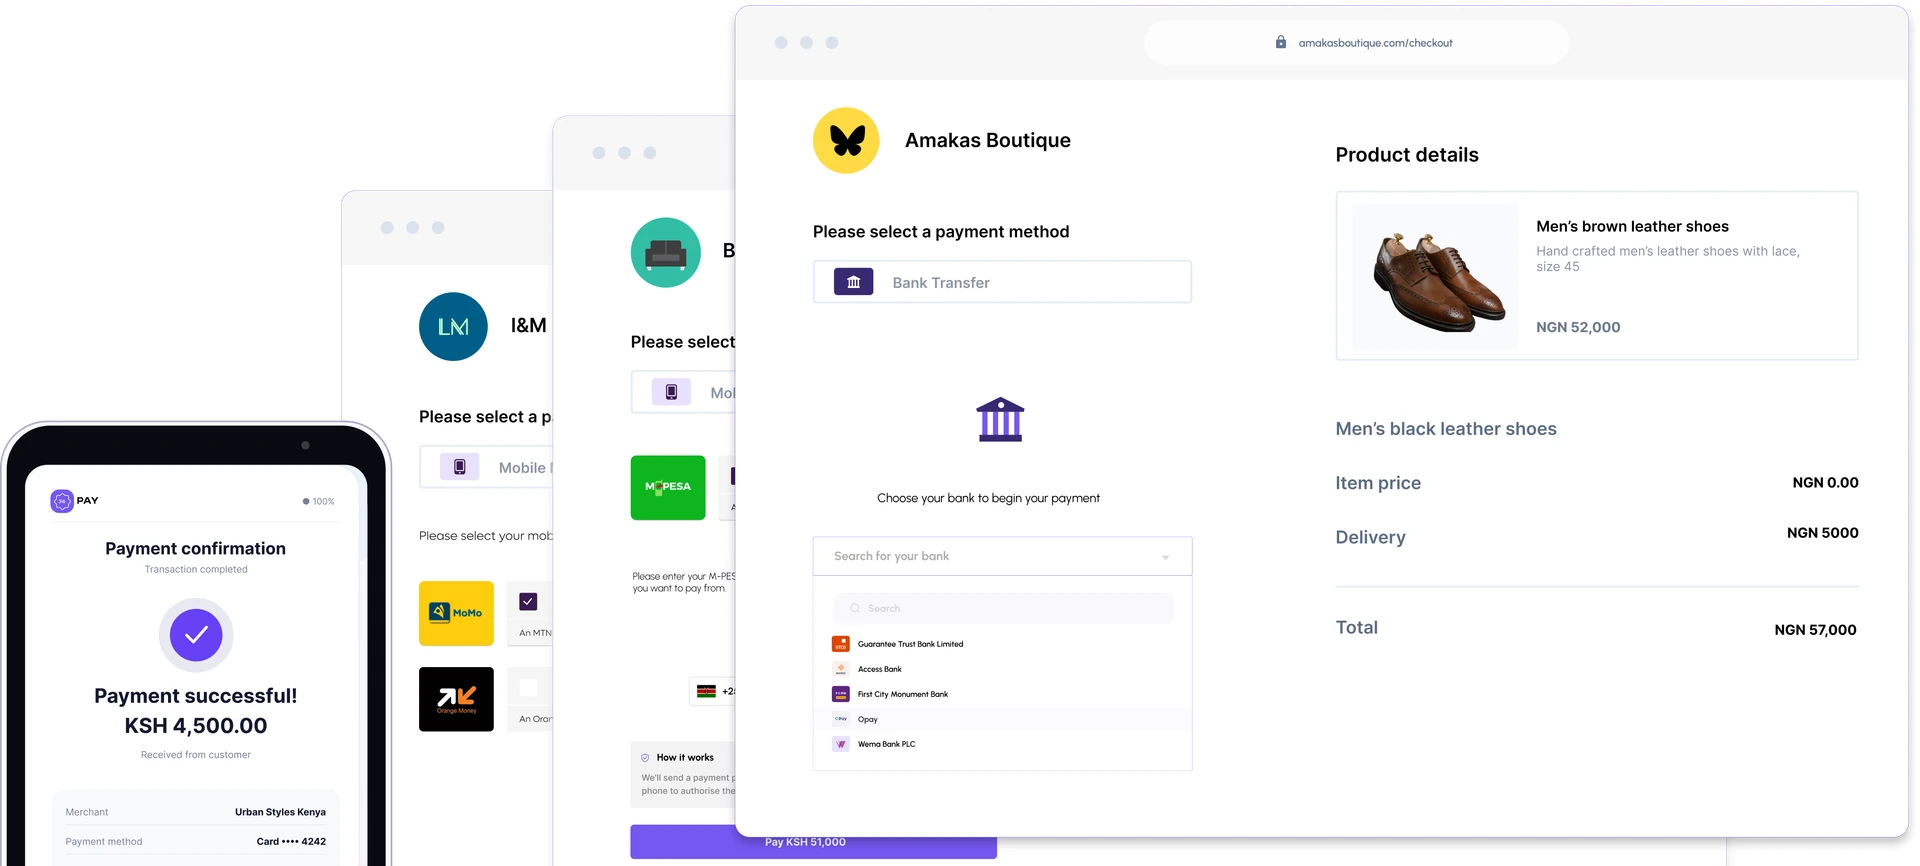
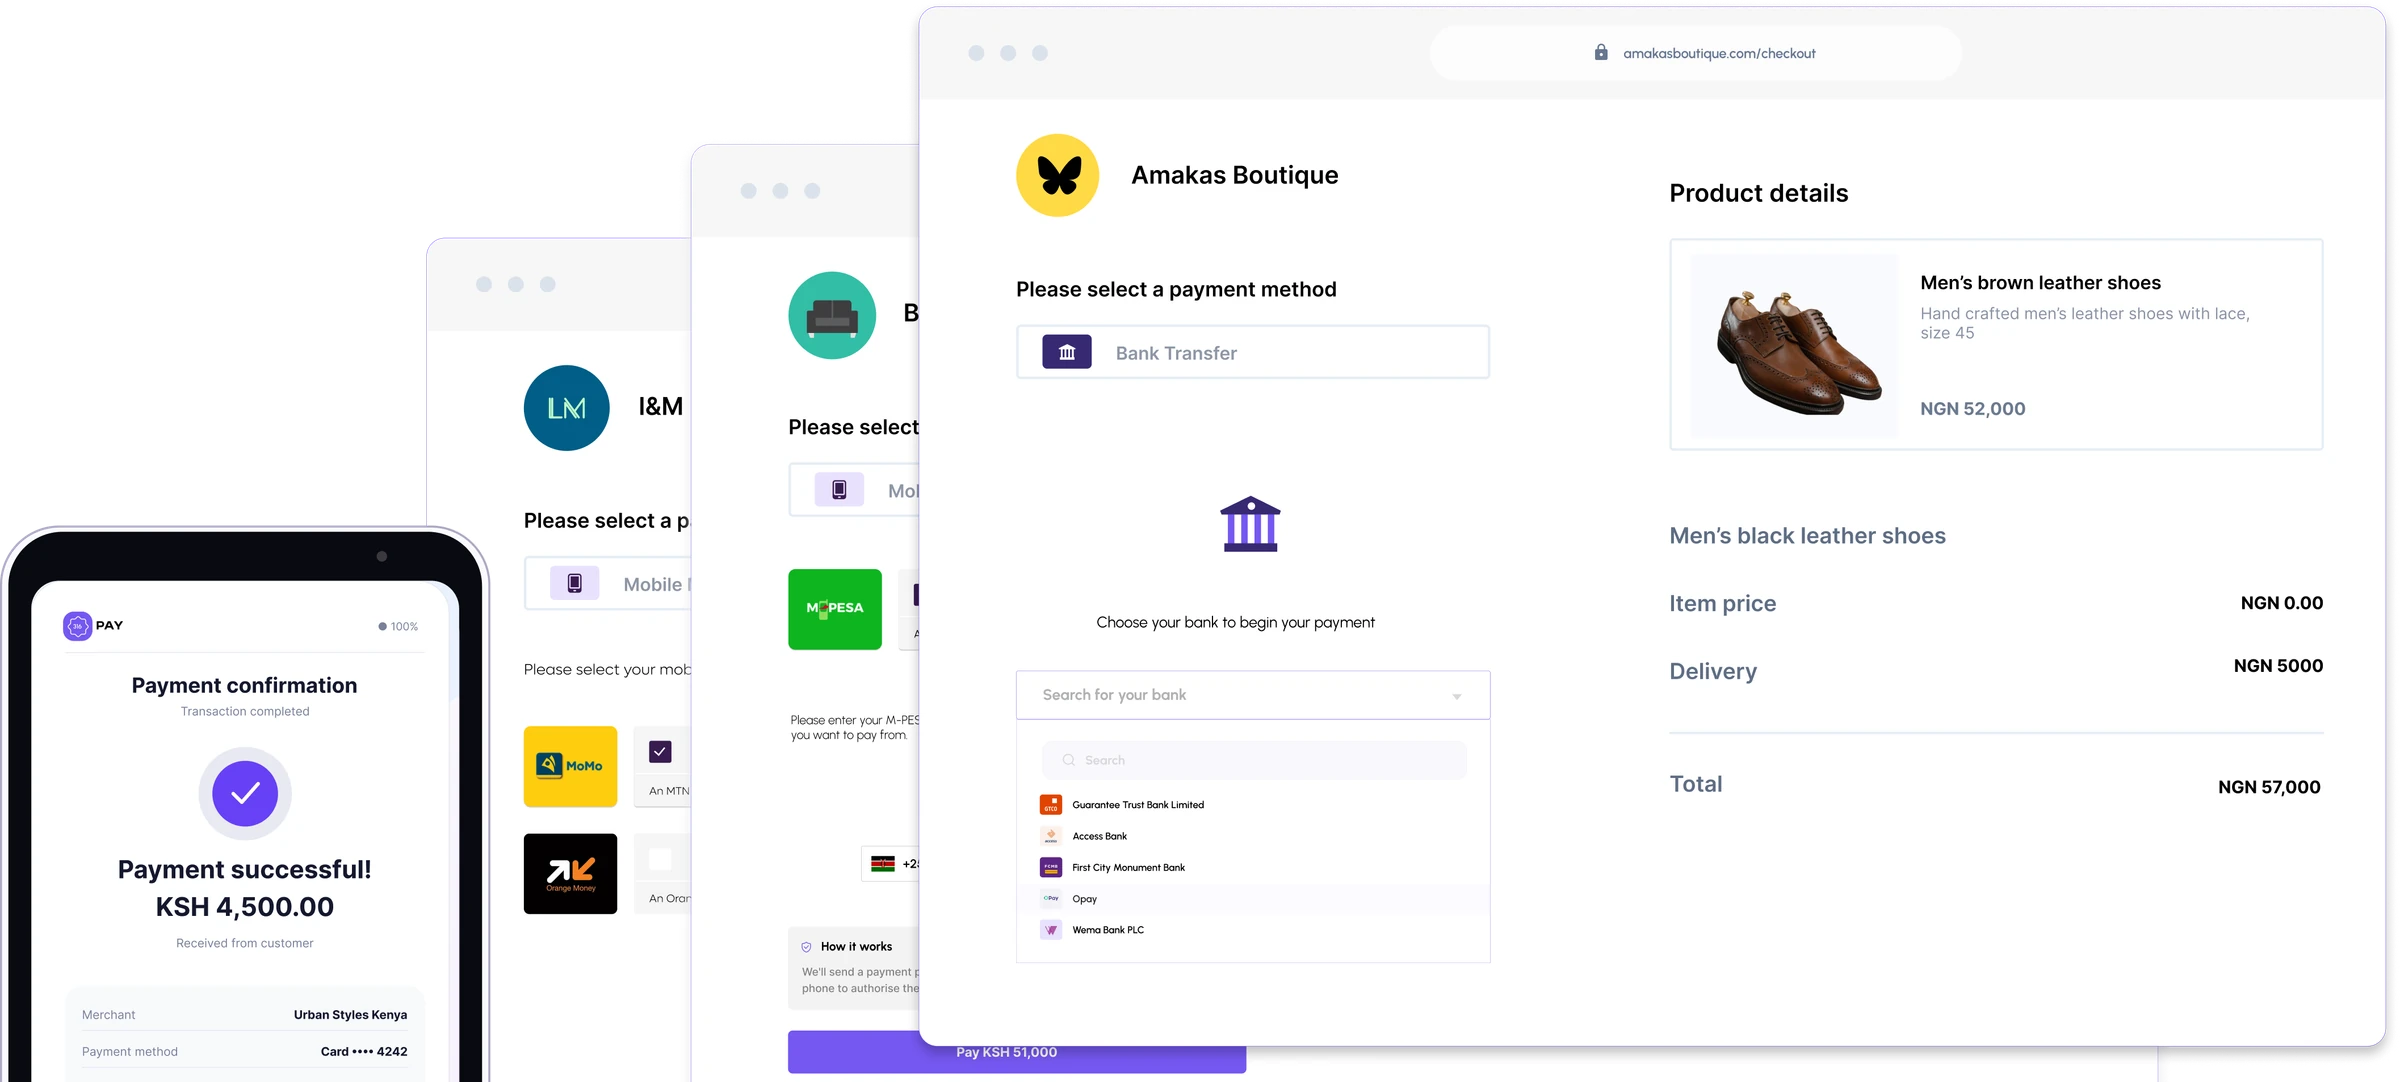
Business: larger crisp hero with curve lines, product panel image, Accept payments online and in person section, exact shades for instalment cards and API facets

diff --git a/apps/marketing-web/business.css b/apps/marketing-web/business.css
@@ -67,7 +67,10 @@
 .bz-hero__title { margin: 0; font-size: clamp(1.875rem, 1rem + 2.7vw, 2.875rem); line-height: 1.15; font-weight: 600; }
 .bz-hero__title .ln { display: block; }
 .bz-lead { max-width: 56rem; margin: clamp(1.25rem, 2.4vw, 2rem) auto 0; font-size: clamp(0.9375rem, 0.75rem + 0.75vw, 1.3125rem); line-height: 1.5; color: #1a1a1a; }
-.bz-hero__media { width: min(100%, 64rem); margin: clamp(2rem, 4.5vw, 4rem) auto 0; }
+.bz-hero__text, .bz-hero__media { position: relative; z-index: 1; }
+.bz-hero__lines { position: absolute; inset: 0; z-index: 0; width: 100%; height: 100%; pointer-events: none; }
+.bz-hero__lines path { stroke-width: 1.2; vector-effect: non-scaling-stroke; }
+.bz-hero__media { width: min(82%, 74rem); margin: clamp(2rem, 4.5vw, 4rem) auto 0; }
 .bz-hero__media .bz-img { width: 100%; }
 
 /* ---------- 2 · Bento ---------- */
@@ -90,8 +93,8 @@
 .bz-card__art { position: relative; margin-top: auto; }
 
 /* 03 Collections: white card, chart under the copy */
-.bz-card--white { background: #fff; border: 0.0625rem solid #ECE8F8; }
-.bz-card__art--chart { margin-top: clamp(1.25rem, 4%, 2rem); padding: 0 6% 0; }
+.bz-card--white { background: radial-gradient(circle at center, rgba(160, 130, 240, .22) 0.0625rem, transparent 0.125rem) 0 0 / 1.25rem 1.25rem, linear-gradient(135deg, #FDFCFF 0%, #F8F5FF 100%); }
+.bz-card__art--chart { margin-top: clamp(1.25rem, 4%, 2rem); padding: 0 5% 0; }
 
 /* 04 Payment links: lilac with a dot field, chats and a product panel */
 .bz-card--links, .bz-card--gift {
@@ -134,8 +137,9 @@
 /* ---------- 5 · Instalments ---------- */
 .bz-sub--wide { max-width: 64rem; }
 .bz-pss { display: grid; grid-template-columns: 2.04fr 1fr; gap: var(--bz-gap); align-items: stretch; }
-.bz-card--pss { background: linear-gradient(160deg, #FBFAFF 0%, #F6F2FE 55%, #EFE8FD 100%); isolation: isolate; }
-.bz-card--pss::before { content: ""; position: absolute; z-index: -1; left: 0; bottom: 0; width: 55%; height: 62%; background: linear-gradient(60deg, #DCCDFD 0%, #E9E0FE 100%); clip-path: polygon(0 100%, 0 45%, 100% 100%); }
+.bz-card--pss { background: linear-gradient(135deg, #FAF9FF 0%, #F6F3FF 60%, #F4F1FE 100%); isolation: isolate; }
+.bz-card--pss::before { content: ""; position: absolute; z-index: -1; left: 0; bottom: 0; width: 48%; height: 22%; background: linear-gradient(90deg, #D3C1FD 0%, #D9CAFD 100%); clip-path: polygon(0 100%, 0 38%, 100% 100%); }
+.bz-card--pss::after { content: ""; position: absolute; z-index: -1; left: 0; bottom: 0; width: 58%; height: 13%; background: #E9E1FE; clip-path: polygon(0 100%, 0 20%, 100% 100%); }
 .bz-card--pss .bz-card__text { padding-bottom: 0; }
 .bz-card--pss h3 { max-width: 14em; font-size: clamp(1.125rem, 0.8rem + 0.8vw, 1.5rem); }
 .bz-card__label--dark { color: var(--bz-eyebrow); }
@@ -145,7 +149,7 @@
 .bz-pss__rem { left: 22.3%; top: 23.6%; width: 25.4%; z-index: 2; filter: drop-shadow(0 0.25rem 0.75rem rgba(80, 50, 160, .12)); }
 .bz-pss__order { left: 22.3%; top: 33%; width: 25.4%; z-index: 2; filter: drop-shadow(0 0.25rem 0.75rem rgba(80, 50, 160, .12)); }
 .bz-pss__conn { position: absolute; left: 31%; top: 13.4%; width: 13.7%; height: 10.5%; border-top: 0.09375rem dashed #7557F1; border-left: 0.09375rem dashed #7557F1; opacity: .7; }
-.bz-card--manage { background: linear-gradient(190deg, #F4F1FE 0%, #D9CCFD 38%, #AE98FB 70%, #A38DFA 100%); }
+.bz-card--manage { background: linear-gradient(195deg, #F5F2FF 0%, #F4F1FE 22%, #D9CAFD 46%, #AC82F9 72%, #A68FFB 100%); }
 .bz-card--manage h3 { font-size: clamp(1rem, 0.8rem + 0.55vw, 1.3125rem); }
 .bz-card__art--plans { margin-top: clamp(1.25rem, 8%, 2rem); padding: 0 4%; }
 .bz-card__art--plans .bz-img { box-shadow: 0 0.5rem 2rem rgba(70, 40, 150, .15); border-radius: 0.875rem; }
@@ -189,9 +193,7 @@
 /* ---------- 8 · Powerful APIs ---------- */
 .bz-api { position: relative; overflow: hidden; }
 .bz-api > .bz-wrap { position: relative; z-index: 1; }
-.bz-poly { position: absolute; z-index: 0; height: auto; max-width: none; pointer-events: none; }
-.bz-poly--a { right: 0; bottom: 0; top: auto; height: 79%; width: auto; }
-.bz-poly--b { right: 0; bottom: 0; top: auto; width: 55%; height: auto; }
+.bz-api__bg { position: absolute; inset: 0; z-index: 0; width: 100%; height: 100%; pointer-events: none; }
 .bz-api__inner { display: grid; grid-template-columns: minmax(0, 1fr) minmax(0, 1.15fr); gap: clamp(2rem, 6vw, 5rem); align-items: center; }
 .bz-api .bz-h2 { color: #fff; font-size: clamp(1.625rem, 0.9rem + 2vw, 2.375rem); }
 .bz-api .bz-body { color: rgba(255, 255, 255, .9); font-size: clamp(0.875rem, 0.75rem + 0.4vw, 1.0625rem); }
@@ -260,3 +262,25 @@
 .theme-pay .faq__list details[open] summary::after { transform: rotate(180deg); }
 .theme-pay .faq__list summary .ln { display: inline; }
 @media (min-width: 48rem) { .theme-pay .faq__list summary .ln { display: block; } }
+
+/* ---------- Accept payments online and in person ---------- */
+.bz-online { position: relative; overflow: hidden; margin-top: clamp(2.5rem, 5vw, 4.5rem); background: linear-gradient(180deg, #F4F0FE 0%, #F7F4FF 22%, #FFFFFF 78%); }
+.bz-online__head { padding: clamp(1.5rem, 3.6%, 3rem) clamp(1.25rem, 3.6%, 3rem) 0; }
+.bz-online__title { margin: 0; font-size: clamp(1.25rem, 0.9rem + 1.1vw, 1.75rem); line-height: 1.25; font-weight: 600; color: #000; }
+.bz-online__title .ln { display: block; }
+.bz-online__desc { margin: 0.875rem 0 0; font-size: clamp(0.75rem, 0.68rem + 0.3vw, 0.9375rem); line-height: 1.5; color: #1a1a1a; }
+@media (min-width: 64rem) { .bz-online__desc .ln { display: block; } }
+.bz-online__art { position: relative; aspect-ratio: 2.14 / 1; margin-top: clamp(1.5rem, 3.2%, 2.75rem); }
+.bz-online__art > * { position: absolute; display: block; max-width: none; }
+.bz-online__wedge { left: 0; bottom: 0; width: 34%; height: 62%; background: linear-gradient(120deg, #EDE5FE 0%, #DCCEFC 100%); clip-path: polygon(0 100%, 0 26%, 100% 100%); }
+.bz-online__pos { left: 7.6%; top: 11%; height: 83%; width: auto; z-index: 2; filter: drop-shadow(0 0.75rem 1.5rem rgba(80, 50, 160, .22)); }
+.bz-online__dash { left: 29.3%; top: 4.4%; width: 70.7%; height: auto; z-index: 1; }
+img.bz-online__dash { box-shadow: 0 0.5rem 2rem rgba(80, 50, 160, .1); }
+@media (max-width: 47.99rem) {
+  .bz-online__art { aspect-ratio: auto; display: flex; flex-direction: column; align-items: center; gap: 1.5rem; padding: 1.5rem 1.25rem 0; }
+  .bz-online__art > * { position: static; }
+  .bz-online__wedge { display: none; }
+  .bz-online__pos { height: 22rem; width: auto; max-width: 100%; }
+  .bz-online__dash { width: 100%; }
+  .bz-hero__media { width: 100%; }
+}

diff --git a/apps/marketing-web/accept-online-payments.html b/apps/marketing-web/accept-online-payments.html
@@ -200,11 +200,21 @@
   <main>
     <!-- 1 · Hero (gradient #FBF8FF → #E8D7FF → #AF7BFA) -->
     <section class="bz-hero" aria-labelledby="bz-hero-title">
+      <svg class="bz-hero__lines" viewBox="0 0 1440 900" preserveAspectRatio="none" aria-hidden="true" focusable="false">
+        <g fill="none" stroke="#fff" stroke-linecap="round">
+          <path d="M-20 700 C 110 660 230 590 380 520" opacity=".55"/>
+          <path d="M-20 760 C 130 715 270 640 430 560" opacity=".45"/>
+          <path d="M-20 820 C 150 770 300 690 480 600" opacity=".35"/>
+          <path d="M1460 560 C 1340 570 1240 520 1110 450" opacity=".5"/>
+          <path d="M1460 630 C 1350 640 1250 590 1130 520" opacity=".4"/>
+          <path d="M1460 700 C 1360 705 1270 660 1160 590" opacity=".3"/>
+        </g>
+      </svg>
       <div class="bz-hero__text">
         <h1 id="bz-hero-title" class="bz-hero__title"><span class="ln accent">We make it easy</span> <span class="ln">to collect payments in Africa</span></h1>
         <p class="bz-lead"><span class="ln">Collect payments from customers, simplify your operations and reach more</span> <span class="ln">of your market with payment infrastructure designed around African</span> <span class="ln">businesses.</span></p>
       </div>
-      <div class="bz-hero__media"><img src="assets/Business/hero.webp" alt="A phone showing a payment confirmation in front of three checkout screens: mobile money, bank transfer and card" class="bz-img" fetchpriority="high" width="1920" height="866" decoding="async"></div>
+      <div class="bz-hero__media"><img src="assets/Business/hero.webp" alt="A phone showing a payment confirmation in front of three checkout screens: mobile money, bank transfer and card" class="bz-img" fetchpriority="high" width="2400" height="1082" decoding="async"></div>
     </section>
 
     <!-- 2 · Payments should move at the speed of your business (white) -->
@@ -243,7 +253,7 @@
               <div class="bz-card__art bz-card__art--links">
                 <img src="assets/Business/link-chat-1.webp" alt="WhatsApp: Hi Amaka, Good news! The new collection is now ready. The pieces you were after are back in stock in your size." class="bz-chat bz-chat--a" width="700" height="155" loading="lazy" decoding="async">
                 <img src="assets/Business/link-chat-2.webp" alt="WhatsApp reply: Oh wow good news, please send me a payment link to reserve before they sell out again. Sharp sharp" class="bz-chat bz-chat--b" width="700" height="157" loading="lazy" decoding="async">
-                <span class="slot bz-links__products" style="aspect-ratio:1.275/1" data-slot="Business/links-products" aria-hidden="true"></span>
+                <img src="assets/Business/links-products.webp" alt="" class="bz-links__products" width="900" height="704" loading="lazy" decoding="async">
               </div>
             </article>
 
@@ -256,6 +266,18 @@
               </div>
               <div class="bz-card__art bz-card__art--gift"><img src="assets/Business/giftcard-phone.webp" alt="A checkout screen at step 3, Gift Card, showing a Home Electrical Supplies gift card worth N50,000" class="bz-img" width="700" height="884" loading="lazy" decoding="async"></div>
             </article>
+          </div>
+        </div>
+
+        <div class="bz-online" id="online">
+          <div class="bz-online__head">
+            <h3 class="bz-online__title"><span class="ln">Accept payments online</span> <span class="ln">and in person.</span></h3>
+            <p class="bz-online__desc"><span class="ln">Give customers a clear checkout experience, with payment methods that fit your market</span> <span class="ln">and your business.</span></p>
+          </div>
+          <div class="bz-online__art">
+            <span class="bz-online__wedge" aria-hidden="true"></span>
+            <img src="assets/Business/pos-terminal.webp" alt="A payment terminal on the amount screen for Le Relais Restaurant, showing 12 500 XAF" class="bz-online__pos" width="700" height="1359" loading="lazy" decoding="async">
+            <span class="slot bz-online__dash" style="aspect-ratio:1.58/1" data-slot="Business/pos-dashboard" aria-hidden="true"></span>
           </div>
         </div>
       </div>
@@ -457,7 +479,17 @@
 
     <!-- 8 · Powerful APIs (#000) -->
     <section class="bz-sec bz-sec--black bz-api" id="api" aria-labelledby="api-title">
-      <img class="bz-poly bz-poly--a" src="assets/Business/poly-a.webp" alt="" width="700" height="746" loading="lazy" decoding="async"><img class="bz-poly bz-poly--b" src="assets/Business/poly-b.webp" alt="" width="700" height="241" loading="lazy" decoding="async">
+      <svg class="bz-api__bg" viewBox="0 0 1500 900" preserveAspectRatio="none" aria-hidden="true" focusable="false">
+        <defs>
+          <linearGradient id="bz-f1" x1="0" y1="1" x2="1" y2="0"><stop offset="0" stop-color="#443761"/><stop offset="1" stop-color="#6a6299"/></linearGradient>
+          <linearGradient id="bz-f2" x1="0" y1="1" x2="1" y2="0"><stop offset="0" stop-color="#8a5fd8"/><stop offset="1" stop-color="#9a80ea"/></linearGradient>
+          <linearGradient id="bz-f3" x1="0" y1="0" x2="1" y2="0"><stop offset="0" stop-color="#8b66dc"/><stop offset="1" stop-color="#9490e0"/></linearGradient>
+        </defs>
+        <polygon points="0,900 1500,240 1500,900" fill="url(#bz-f1)"/>
+        <polygon points="260,900 1500,470 1500,900" fill="url(#bz-f2)"/>
+        <polygon points="700,900 1500,600 1500,900" fill="url(#bz-f3)"/>
+        <line x1="330" y1="900" x2="1500" y2="560" stroke="#fff" stroke-opacity=".85" stroke-width="2" vector-effect="non-scaling-stroke"/>
+      </svg>
       <div class="bz-wrap bz-api__inner">
         <div class="bz-api__copy">
           <p class="bz-eyebrow">For the people building what’s next</p>

diff --git a/tools/pages/accept-online-payments.page.html b/tools/pages/accept-online-payments.page.html
@@ -1,6 +1,16 @@
 <!--page title="Accept online payments · 316 Pay" description="Collect payments from customers, simplify your operations and reach more of your market with payment infrastructure designed around African businesses." preload="assets/Business/hero.webp" css="business.css" bodyclass="theme-pay" wordmark="PAY"-->
     <!-- 1 · Hero (gradient #FBF8FF → #E8D7FF → #AF7BFA) -->
     <section class="bz-hero" aria-labelledby="bz-hero-title">
+      <svg class="bz-hero__lines" viewBox="0 0 1440 900" preserveAspectRatio="none" aria-hidden="true" focusable="false">
+        <g fill="none" stroke="#fff" stroke-linecap="round">
+          <path d="M-20 700 C 110 660 230 590 380 520" opacity=".55"/>
+          <path d="M-20 760 C 130 715 270 640 430 560" opacity=".45"/>
+          <path d="M-20 820 C 150 770 300 690 480 600" opacity=".35"/>
+          <path d="M1460 560 C 1340 570 1240 520 1110 450" opacity=".5"/>
+          <path d="M1460 630 C 1350 640 1250 590 1130 520" opacity=".4"/>
+          <path d="M1460 700 C 1360 705 1270 660 1160 590" opacity=".3"/>
+        </g>
+      </svg>
       <div class="bz-hero__text">
         <h1 id="bz-hero-title" class="bz-hero__title"><span class="ln accent">We make it easy</span> <span class="ln">to collect payments in Africa</span></h1>
         <p class="bz-lead"><span class="ln">Collect payments from customers, simplify your operations and reach more</span> <span class="ln">of your market with payment infrastructure designed around African</span> <span class="ln">businesses.</span></p>
@@ -57,6 +67,18 @@
               </div>
               <div class="bz-card__art bz-card__art--gift">{{img:Business/giftcard-phone alt="A checkout screen at step 3, Gift Card, showing a Home Electrical Supplies gift card worth N50,000" class="bz-img"}}</div>
             </article>
+          </div>
+        </div>
+
+        <div class="bz-online" id="online">
+          <div class="bz-online__head">
+            <h3 class="bz-online__title"><span class="ln">Accept payments online</span> <span class="ln">and in person.</span></h3>
+            <p class="bz-online__desc"><span class="ln">Give customers a clear checkout experience, with payment methods that fit your market</span> <span class="ln">and your business.</span></p>
+          </div>
+          <div class="bz-online__art">
+            <span class="bz-online__wedge" aria-hidden="true"></span>
+            {{img:Business/pos-terminal alt="A payment terminal on the amount screen for Le Relais Restaurant, showing 12 500 XAF" class="bz-online__pos"}}
+            {{slot:Business/pos-dashboard ratio="1.58/1" class="bz-online__dash"}}
           </div>
         </div>
       </div>
@@ -258,7 +280,17 @@
 
     <!-- 8 · Powerful APIs (#000) -->
     <section class="bz-sec bz-sec--black bz-api" id="api" aria-labelledby="api-title">
-      <img class="bz-poly bz-poly--a" src="assets/Business/poly-a.webp" alt="" width="700" height="746" loading="lazy" decoding="async"><img class="bz-poly bz-poly--b" src="assets/Business/poly-b.webp" alt="" width="700" height="241" loading="lazy" decoding="async">
+      <svg class="bz-api__bg" viewBox="0 0 1500 900" preserveAspectRatio="none" aria-hidden="true" focusable="false">
+        <defs>
+          <linearGradient id="bz-f1" x1="0" y1="1" x2="1" y2="0"><stop offset="0" stop-color="#443761"/><stop offset="1" stop-color="#6a6299"/></linearGradient>
+          <linearGradient id="bz-f2" x1="0" y1="1" x2="1" y2="0"><stop offset="0" stop-color="#8a5fd8"/><stop offset="1" stop-color="#9a80ea"/></linearGradient>
+          <linearGradient id="bz-f3" x1="0" y1="0" x2="1" y2="0"><stop offset="0" stop-color="#8b66dc"/><stop offset="1" stop-color="#9490e0"/></linearGradient>
+        </defs>
+        <polygon points="0,900 1500,240 1500,900" fill="url(#bz-f1)"/>
+        <polygon points="260,900 1500,470 1500,900" fill="url(#bz-f2)"/>
+        <polygon points="700,900 1500,600 1500,900" fill="url(#bz-f3)"/>
+        <line x1="330" y1="900" x2="1500" y2="560" stroke="#fff" stroke-opacity=".85" stroke-width="2" vector-effect="non-scaling-stroke"/>
+      </svg>
       <div class="bz-wrap bz-api__inner">
         <div class="bz-api__copy">
           <p class="bz-eyebrow">For the people building what’s next</p>
